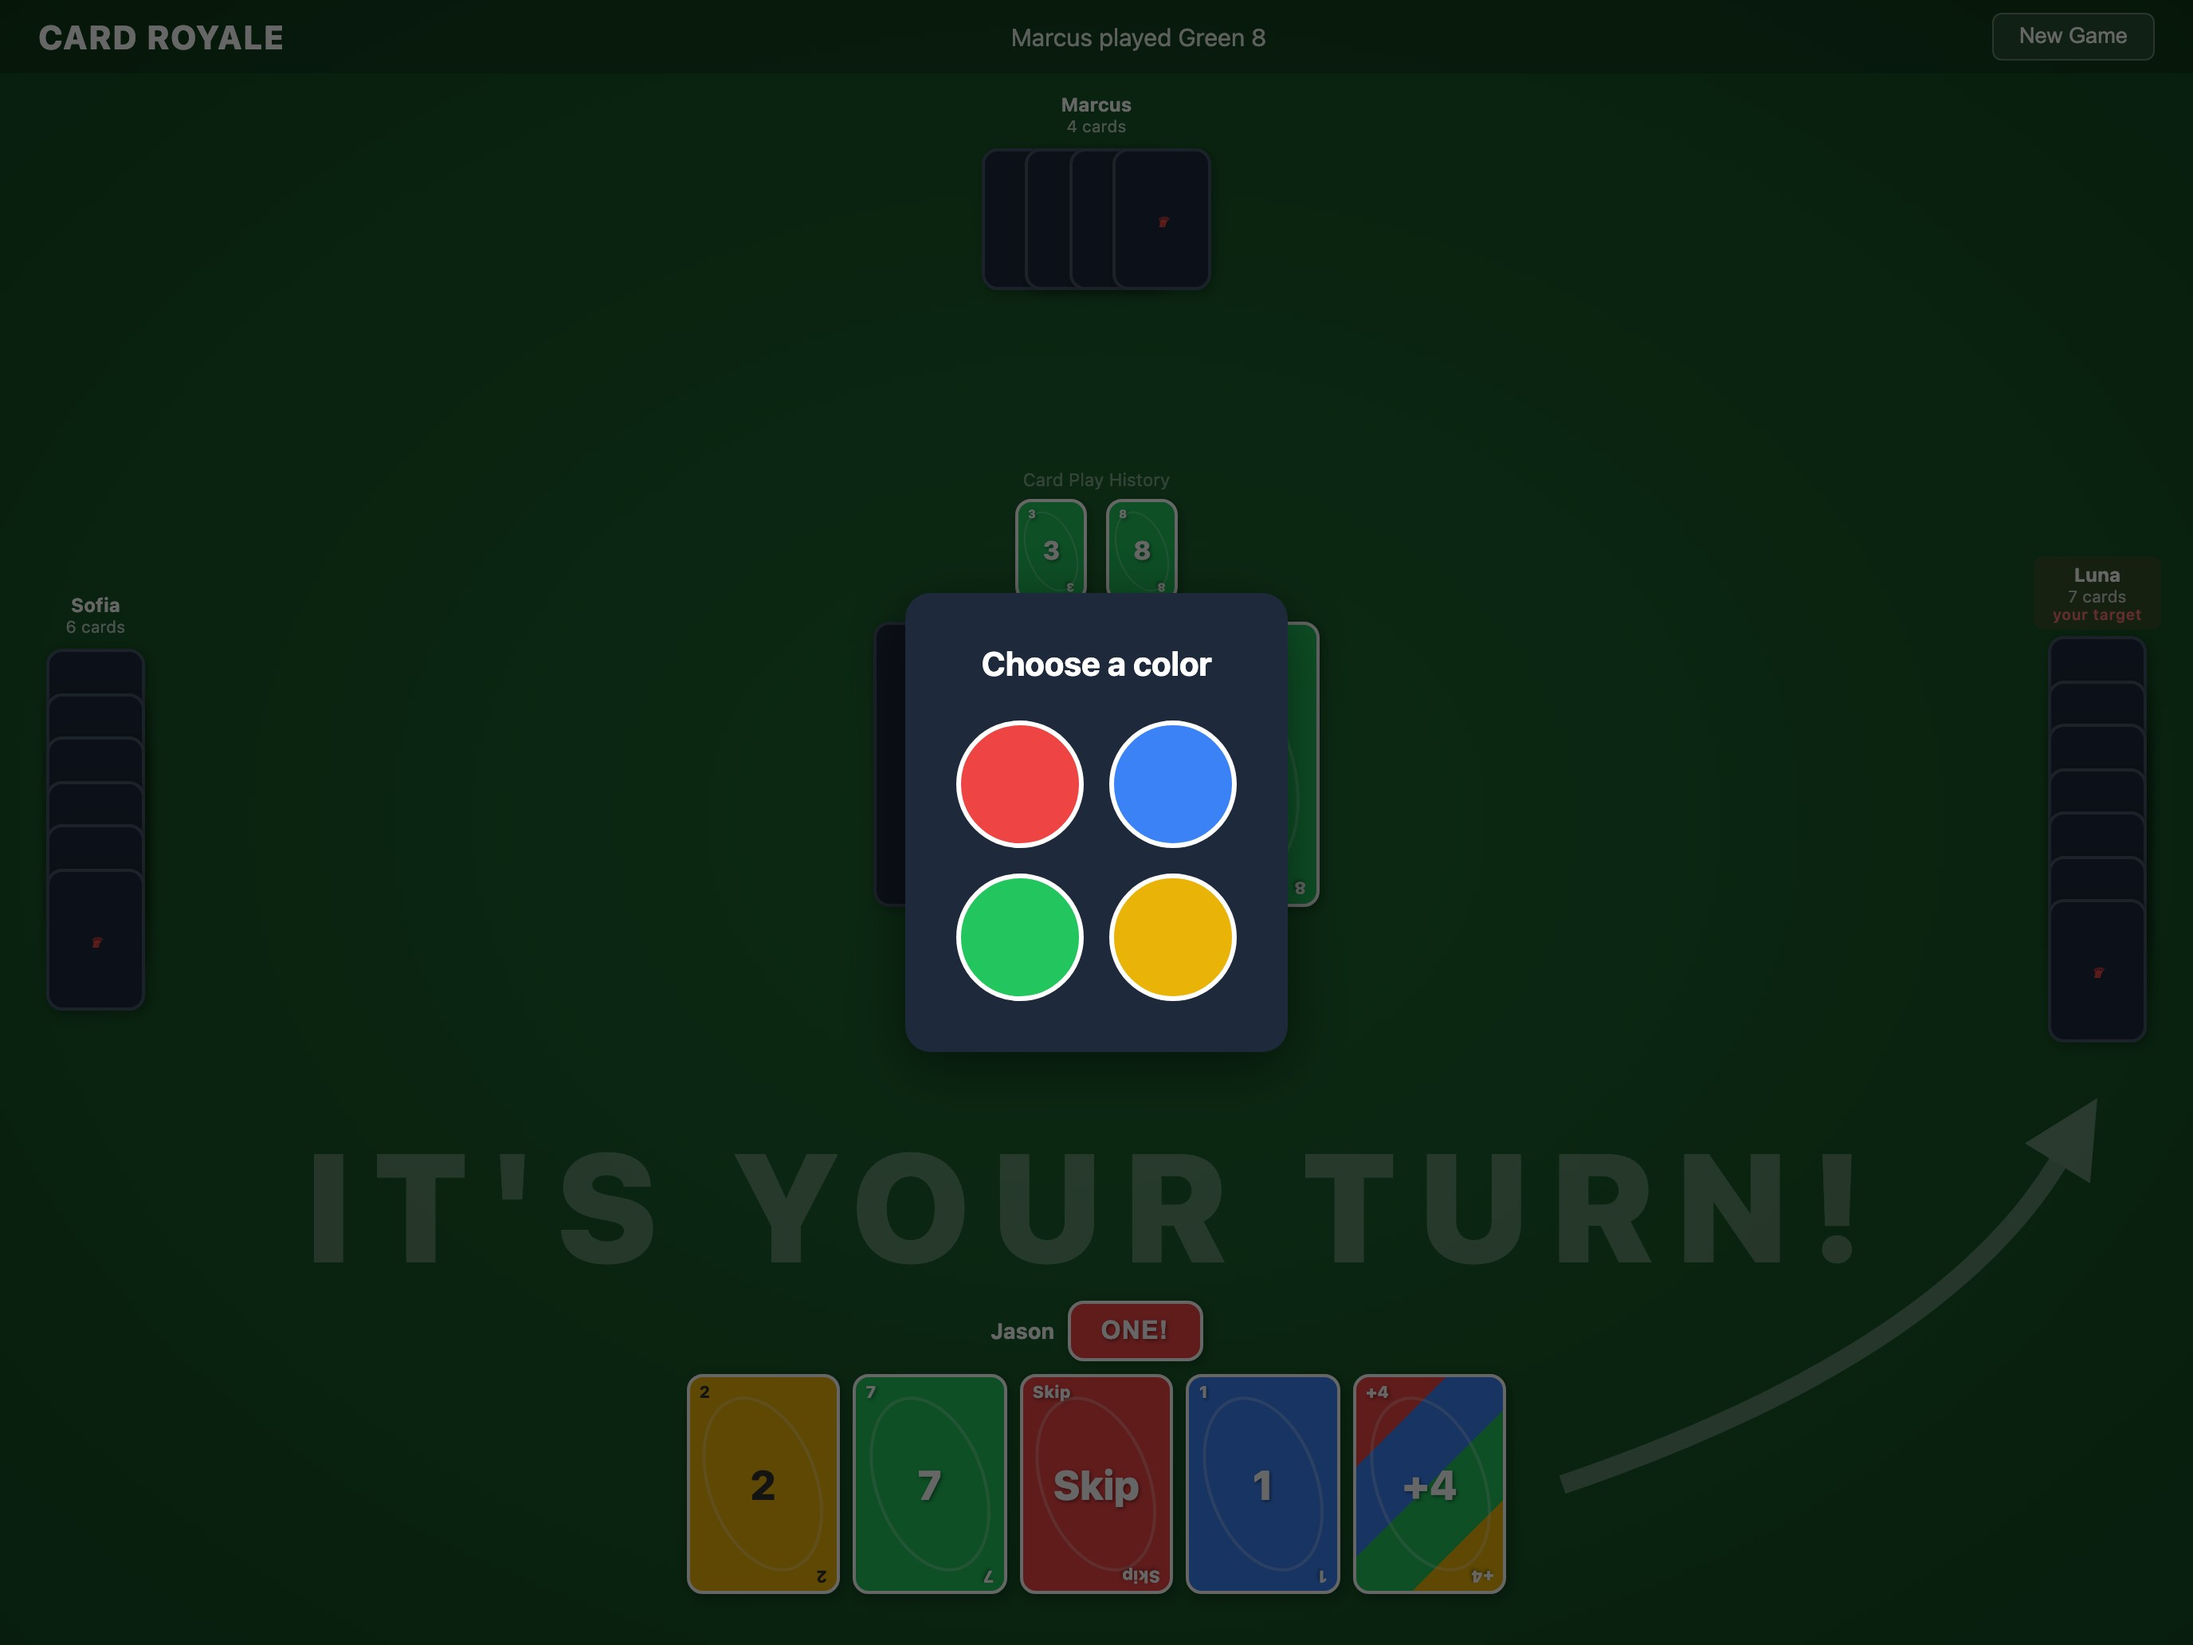
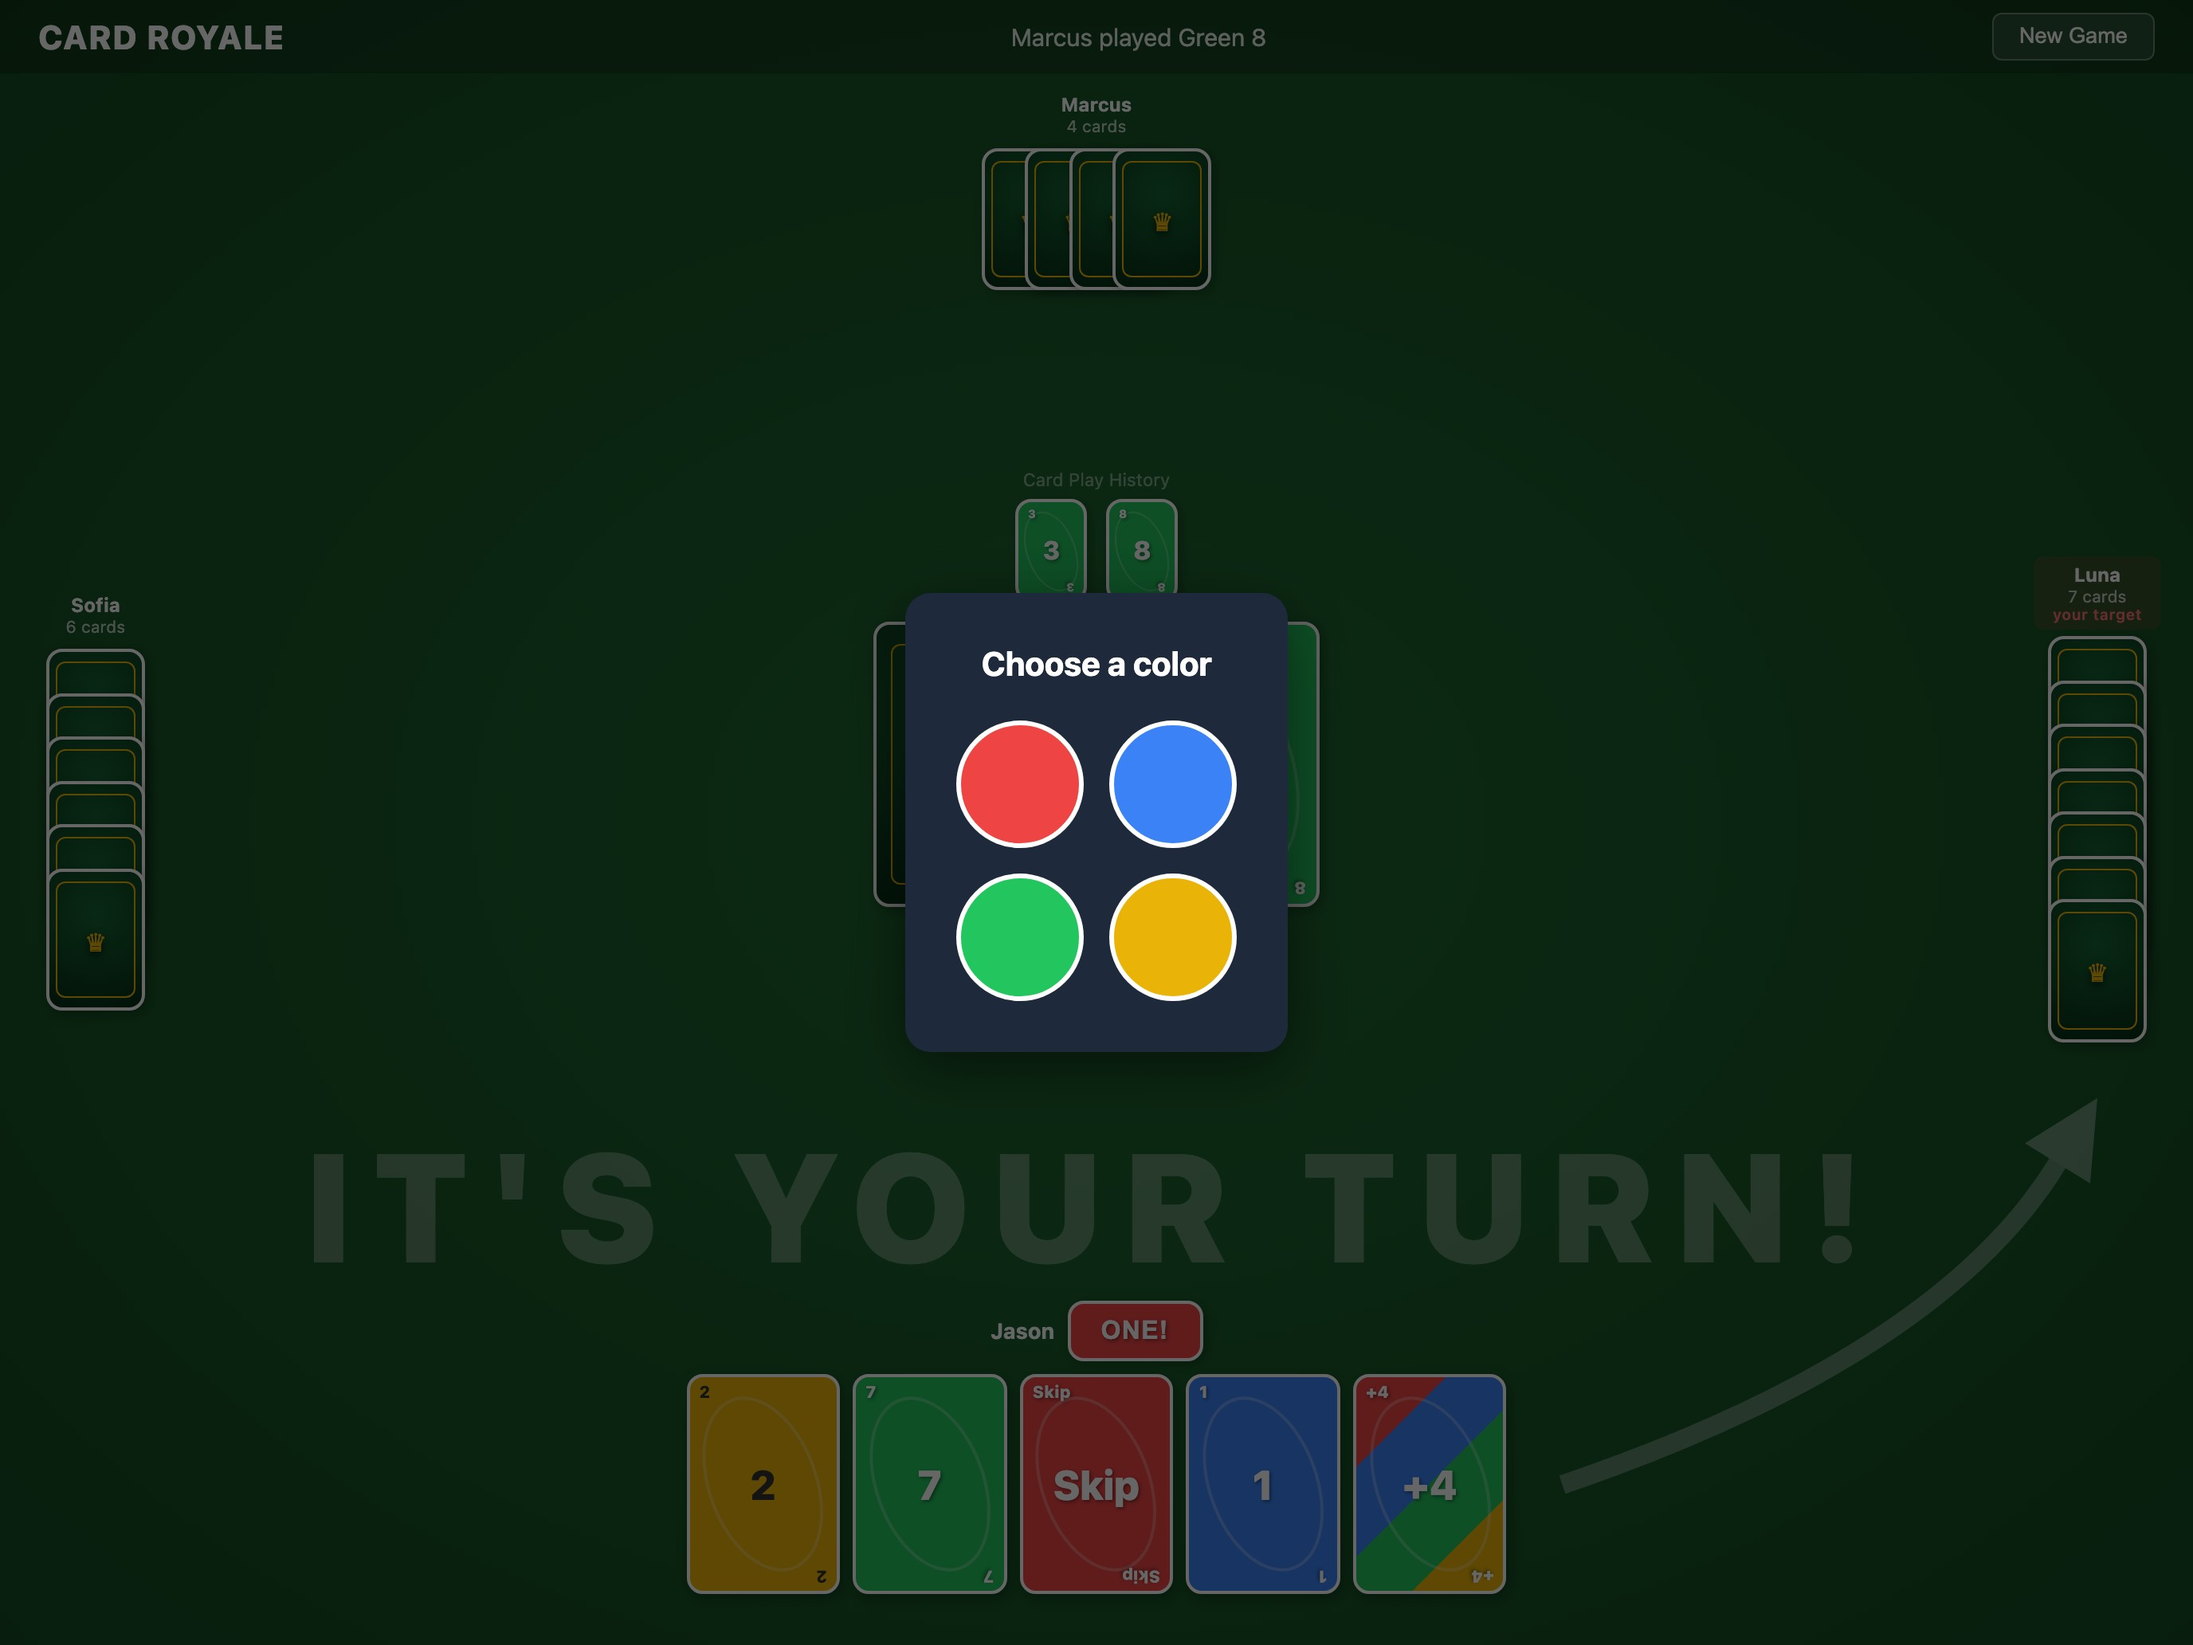
Emerald felt card back with a gold hairline frame and crown

diff --git a/src/style.css b/src/style.css
@@ -453,8 +453,17 @@ body {
   background: linear-gradient(135deg, #ef4444 25%, #3b82f6 25%, #3b82f6 50%, #22c55e 50%, #22c55e 75%, #eab308 75%);
 }
 .card--back {
-  background: #1e293b;
-  border-color: #475569;
+  background: radial-gradient(circle at 50% 30%, #166534, #052e16);
+  border-color: #fff;
+}
+
+.card--back::before {
+  content: "";
+  position: absolute;
+  inset: 7%;
+  border: 1.5px solid #eab308;
+  border-radius: calc(var(--card-radius) * 0.6);
+  pointer-events: none;
 }
 
 /* Card Face Elements */
@@ -534,16 +543,14 @@ body {
 }
 
 .card__uno-text {
-  font-size: 1rem;
-  font-weight: 900;
-  font-style: italic;
-  color: #ef4444;
-  text-shadow: none;
-  letter-spacing: -0.05em;
+  font-size: calc(var(--card-font) * 2.4);
+  color: #eab308;
+  text-shadow: 0 2px 6px rgba(0,0,0,0.7);
+  line-height: 1;
 }
 
 .card__uno-text--small {
-  font-size: 0.55rem;
+  font-size: calc(var(--card-sm-font) * 2);
 }
 
 /* Card States */
